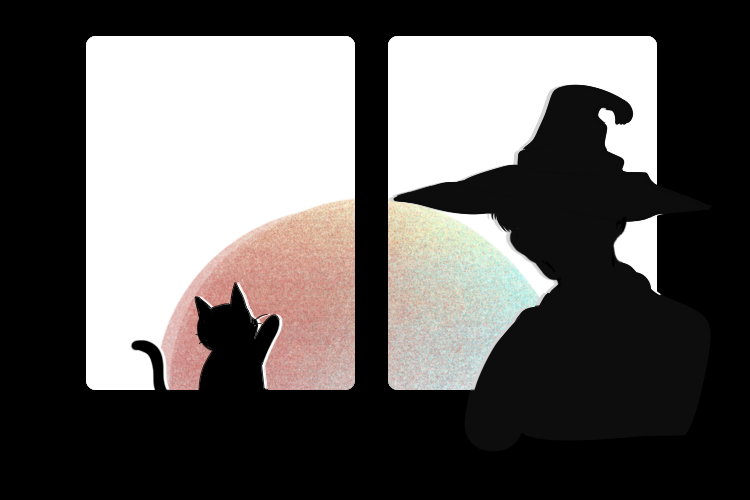
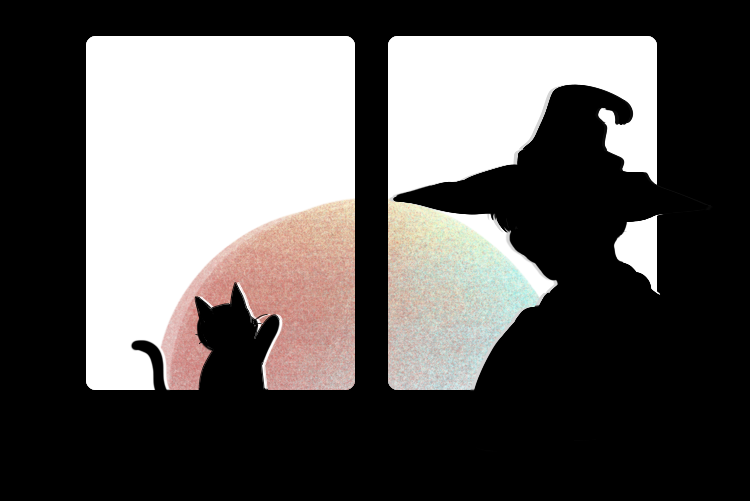
we组件盖上效果，主要来拿东西

diff --git a/NW2019Recruit/src/components/We.vue b/NW2019Recruit/src/components/We.vue
@@ -1,17 +1,19 @@
 <template>
     <div class="we-container" :style="{height:clientHeight}">
-        <div class="we-photo">
+        <div class="we-photo" ref="wePhoto">
             <div class="we-bg"></div>
             <div class="we-ppl"></div>    
             <div class="lcircle"></div>   
-            <div class="scircle"></div>     
+            <div class="scircle"></div>  
+            <div class="black-clip" ref="blackCover"></div>   
         </div>
         <div class="we-word">
             <img src="../assets/nw.png" alt="">
             <h1><span>守</span>夜人</h1>
             <p>工作室</p>
-            Night’s Watch 工作室成立于2017年初，前身是协同工作室前端组，目前主要分为前端、后端、设计组，工作室专注设计并开发Web项目、移动端网页及小程序,特色独立项目为女生节的许愿墙。2017年女生节期间，许愿墙4.0访问人数超过5000。<br/>我们着重培养多方面、多技能的人才，增加自己竞争力。毕业的师兄大多就职于阿里、网易等一线互联网公司。
+            Night’s Watch 工作室成立于2017年初，前身是协同工作室前端组，目前主要分为设计组、全栈组，工作室专注设计并开发Web项目、移动端网页及小程序,特色独立项目为女生节的许愿墙。2017年女生节期间，许愿墙4.0访问人数超过5000。<br/>我们着重培养多方面、多技能的人才，增加自己竞争力。毕业的师兄大多就职于阿里、网易等一线互联网公司。
         </div>
+        <div class="sli-btn" @click="clickPre"></div>
     </div>
 </template>
 
@@ -28,11 +30,24 @@ export default {
         (window.innerHeight ||
         document.documentElement.clientHeight ||
         document.body.clientHeight) + "px";
+        setTimeout(() => {
+            this.$refs.wePhoto.style.opacity = 1;
+        }, 1000);
+    },
+    methods:{
+        clickPre(){
+            this.$refs.blackCover.style.left="-100px"
+            this.$refs.blackCover.style.top="-100px"
+            setTimeout(()=>{
+                this.$router.push({
+                    path:'/.....'
+                })
+            },1000)
+        }
     }
 }
 </script>
 <style scoped>
-/*为什么不行！！！*/
 @font-face {
   font-family: SoukouMincho;
   src: url("../font/SoukouMincho.ttf");
@@ -45,10 +60,14 @@ export default {
     width:750px;
     height: 100vh;
     background-color: black;
+    position: relative;
 }
 .we-photo{
     overflow: hidden;
     position: relative;
+    height: 500px;
+    opacity: 0;
+    transition: all 0.4s linear;
 }
 .we-bg,
 .we-ppl{
@@ -93,13 +112,27 @@ export default {
     right:1px;
     animation: rotateIt 25s linear infinite;
 }
+
+.black-clip{
+    width:1000px;
+    height: 800px;
+    background-color: black;
+    position: absolute;
+    left:750px;
+    top:500px;
+    z-index: 4;
+    transform: rotate(45deg);
+    transition: all 1s;
+}
+
+
 .we-word{
     color:white;
     font-size: 22px;
     font-family: YouYuan;
     padding: 0 112px;
     line-height: 62px;
-    z-index: 3;
+    z-index: 5;
     position: relative;
     text-align: left;
 }
@@ -108,6 +141,7 @@ export default {
     height: 480px;
     position: absolute;
     left:130px;
+    opacity: 0.6;
 }
 .we-word > h1{
     margin:10px 0;
@@ -137,5 +171,13 @@ export default {
 	font-family: "SoukouMincho";
 	font-size: 38px;
 	color: #fefefe;
+}
+.sli-btn{
+    position:fixed;
+    left: 20px;
+    bottom: 20px;
+    width: 100px;
+    height: 100px;
+    background-color: red;
 }
 </style>
